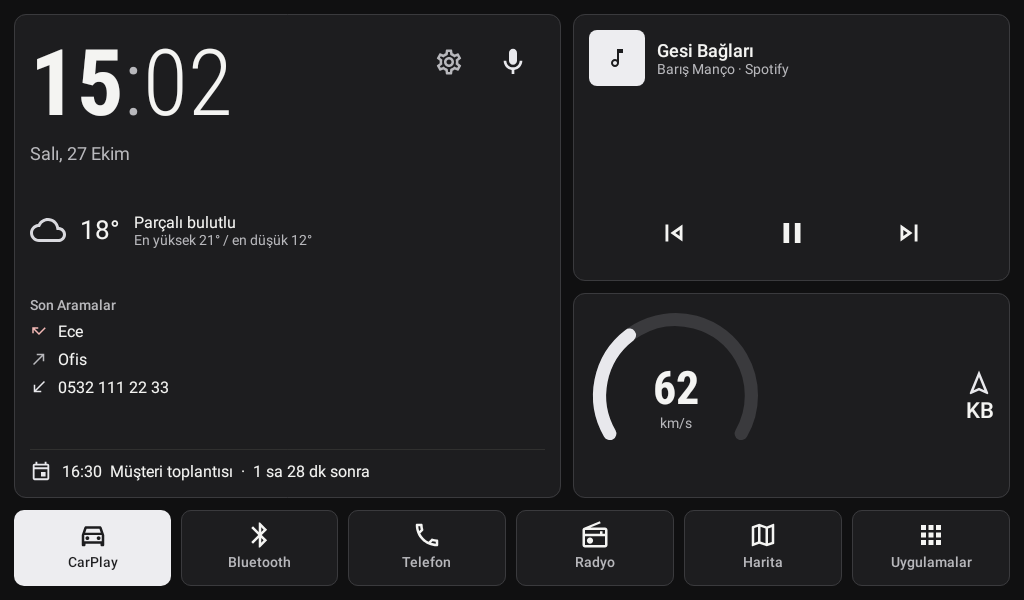
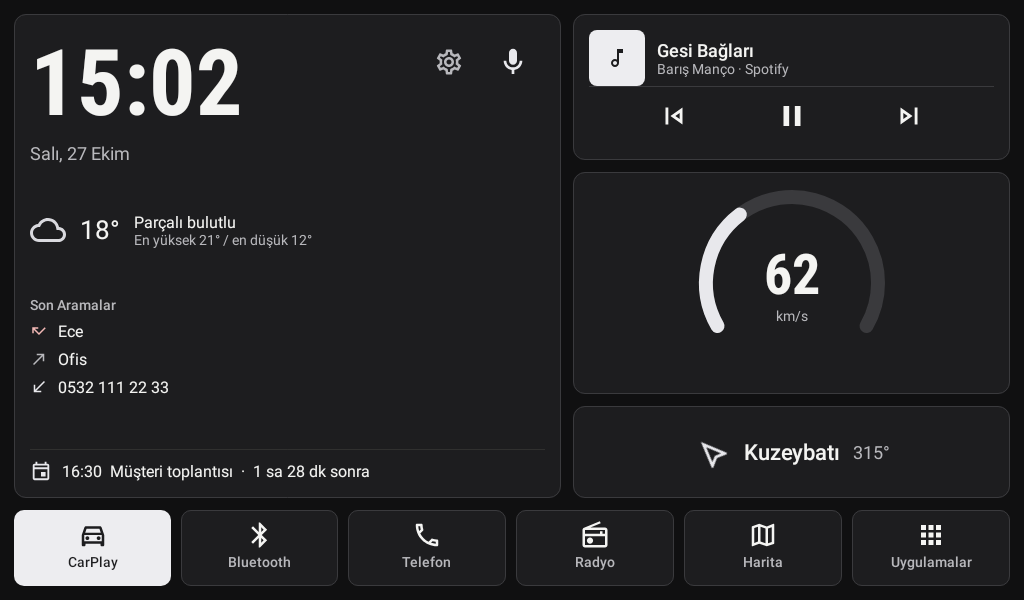
feat: bold green clock, shorter music card with divider, centred speedometer and heading card

diff --git a/app/src/main/java/io/github/yorulmazsinan/kokpit/home/cards/DriveCard.kt b/app/src/main/java/io/github/yorulmazsinan/kokpit/home/cards/DriveCard.kt
@@ -8,7 +8,6 @@ import androidx.compose.foundation.layout.Column
 import androidx.compose.foundation.layout.Row
 import androidx.compose.foundation.layout.Spacer
 import androidx.compose.foundation.layout.aspectRatio
-import androidx.compose.foundation.layout.fillMaxHeight
 import androidx.compose.foundation.layout.fillMaxSize
 import androidx.compose.foundation.layout.padding
 import androidx.compose.foundation.layout.size
@@ -22,6 +21,7 @@ import androidx.compose.material3.Text
 import androidx.compose.runtime.Composable
 import androidx.compose.ui.Alignment
 import androidx.compose.ui.Modifier
+import androidx.compose.ui.draw.rotate
 import androidx.compose.ui.geometry.Offset
 import androidx.compose.ui.geometry.Size
 import androidx.compose.ui.graphics.StrokeCap
@@ -34,13 +34,15 @@ import androidx.compose.ui.unit.sp
 import io.github.yorulmazsinan.kokpit.R
 import io.github.yorulmazsinan.kokpit.drive.TripSnapshot
 import io.github.yorulmazsinan.kokpit.ui.theme.KokpitFonts
+import kotlin.math.roundToInt
 
 private const val GAUGE_MAX_KMH = 180f
 private const val SWEEP = 240f
 private const val START = 150f
 
+/** Centred 0–180 km/h arc speedometer. */
 @Composable
-fun DriveCard(trip: TripSnapshot, permissionMissing: Boolean, onRequestPermissions: () -> Unit, modifier: Modifier = Modifier) {
+fun SpeedCard(trip: TripSnapshot, permissionMissing: Boolean, onRequestPermissions: () -> Unit, modifier: Modifier = Modifier) {
     KokpitCard(modifier) {
         if (permissionMissing) {
             Row(Modifier.fillMaxSize().clickable(onClick = onRequestPermissions), verticalAlignment = Alignment.CenterVertically) {
@@ -50,31 +52,44 @@ fun DriveCard(trip: TripSnapshot, permissionMissing: Boolean, onRequestPermissio
             }
             return@KokpitCard
         }
-        Row(Modifier.fillMaxSize(), verticalAlignment = Alignment.CenterVertically, horizontalArrangement = Arrangement.SpaceBetween) {
-            SpeedGauge(if (trip.hasFix) trip.speedKmh else null, Modifier.fillMaxHeight().aspectRatio(1f))
-            Column(horizontalAlignment = Alignment.End, verticalArrangement = Arrangement.Center) {
-                if (!trip.hasFix) {
-                    Icon(Icons.Outlined.GpsNotFixed, null, tint = MaterialTheme.colorScheme.onSurfaceVariant, modifier = Modifier.size(26.dp))
-                    Text(stringResource(R.string.gps_searching), style = MaterialTheme.typography.bodySmall, color = MaterialTheme.colorScheme.onSurfaceVariant)
-                } else {
-                    trip.compass?.let { compass ->
-                        Icon(Icons.Outlined.Navigation, null, tint = MaterialTheme.colorScheme.primary, modifier = Modifier.size(30.dp))
-                        Text(stringResource(compass.label), style = MaterialTheme.typography.titleLarge, color = MaterialTheme.colorScheme.onSurface)
-                    }
-                }
+        Box(Modifier.fillMaxSize(), contentAlignment = Alignment.Center) {
+            SpeedGauge(if (trip.hasFix) trip.speedKmh else null, Modifier.aspectRatio(1f))
+        }
+    }
+}
+
+/** Heading for now: an arrow turned to the direction of travel, its name and degrees. */
+@Composable
+fun CompassCard(trip: TripSnapshot, modifier: Modifier = Modifier) {
+    KokpitCard(modifier.testTag("compass_card")) {
+        Row(Modifier.fillMaxSize(), verticalAlignment = Alignment.CenterVertically, horizontalArrangement = Arrangement.Center) {
+            val bearing = trip.bearingDeg
+            val compass = trip.compass
+            Icon(
+                Icons.Outlined.Navigation,
+                null,
+                tint = if (bearing != null) MaterialTheme.colorScheme.primary else MaterialTheme.colorScheme.onSurfaceVariant,
+                modifier = Modifier.size(34.dp).rotate(bearing ?: 0f),
+            )
+            Spacer(Modifier.width(16.dp))
+            if (compass != null && bearing != null) {
+                Text(stringResource(compass.fullLabel), style = MaterialTheme.typography.titleLarge, color = MaterialTheme.colorScheme.onSurface)
+                Spacer(Modifier.width(12.dp))
+                Text("${bearing.roundToInt() % 360}°", style = MaterialTheme.typography.bodyLarge, color = MaterialTheme.colorScheme.onSurfaceVariant)
+            } else {
+                Text("—", style = MaterialTheme.typography.titleLarge, color = MaterialTheme.colorScheme.onSurfaceVariant)
             }
         }
     }
 }
 
-/** 240° arc from 0 to 180 km/h with the number in the middle; null shows an empty dial. */
 @Composable
 private fun SpeedGauge(speedKmh: Int?, modifier: Modifier) {
     val track = MaterialTheme.colorScheme.outlineVariant
     val fill = MaterialTheme.colorScheme.primary
     Box(modifier, contentAlignment = Alignment.Center) {
-        Canvas(Modifier.fillMaxSize().padding(4.dp)) {
-            val stroke = size.minDimension * 0.08f
+        Canvas(Modifier.fillMaxSize().padding(2.dp)) {
+            val stroke = size.minDimension * 0.075f
             val arcSize = Size(size.minDimension - stroke, size.minDimension - stroke)
             val topLeft = Offset((size.width - arcSize.width) / 2, (size.height - arcSize.height) / 2)
             drawArc(track, START, SWEEP, false, topLeft, arcSize, style = Stroke(stroke, cap = StrokeCap.Round))
@@ -86,11 +101,15 @@ private fun SpeedGauge(speedKmh: Int?, modifier: Modifier) {
         Column(horizontalAlignment = Alignment.CenterHorizontally) {
             Text(
                 speedKmh?.toString() ?: "–",
-                style = TextStyle(fontFamily = KokpitFonts.condensed, fontSize = 46.sp, lineHeight = 46.sp),
+                style = TextStyle(fontFamily = KokpitFonts.condensed, fontSize = 56.sp, lineHeight = 56.sp),
                 color = MaterialTheme.colorScheme.secondary,
                 modifier = Modifier.testTag("speed_value"),
             )
-            Text(stringResource(R.string.speed_unit), style = MaterialTheme.typography.bodySmall, color = MaterialTheme.colorScheme.onSurfaceVariant)
+            Text(
+                if (speedKmh != null) stringResource(R.string.speed_unit) else stringResource(R.string.gps_searching),
+                style = MaterialTheme.typography.bodySmall,
+                color = MaterialTheme.colorScheme.onSurfaceVariant,
+            )
         }
     }
 }

diff --git a/app/src/main/java/io/github/yorulmazsinan/kokpit/home/cards/ClockCard.kt b/app/src/main/java/io/github/yorulmazsinan/kokpit/home/cards/ClockCard.kt
@@ -45,10 +45,7 @@ import io.github.yorulmazsinan.kokpit.ui.theme.KokpitFonts
 import androidx.compose.material.icons.outlined.CallMade
 import androidx.compose.material.icons.outlined.CallMissed
 import androidx.compose.material.icons.outlined.CallReceived
-import androidx.compose.ui.text.SpanStyle
 import androidx.compose.ui.text.TextStyle
-import androidx.compose.ui.text.buildAnnotatedString
-import androidx.compose.ui.text.withStyle
 import androidx.compose.ui.unit.sp
 import io.github.yorulmazsinan.kokpit.ui.theme.Dimens
 import io.github.yorulmazsinan.kokpit.weather.Weather
@@ -198,16 +195,10 @@ fun WeatherCondition.icon(isDay: Boolean): ImageVector = when (this) {
 
 @Composable
 private fun StyledClock(now: LocalDateTime) {
-    val hours = now.format(DateTimeFormatter.ofPattern("HH"))
-    val minutes = now.format(DateTimeFormatter.ofPattern("mm"))
-    val colors = MaterialTheme.colorScheme
     Text(
-        buildAnnotatedString {
-            withStyle(SpanStyle(fontFamily = KokpitFonts.condensed, color = colors.secondary)) { append(hours) }
-            withStyle(SpanStyle(fontFamily = KokpitFonts.condensedLight, color = colors.onSurfaceVariant)) { append(":") }
-            withStyle(SpanStyle(fontFamily = KokpitFonts.condensedLight, color = colors.onSurface)) { append(minutes) }
-        },
-        style = TextStyle(fontSize = 92.sp, lineHeight = 92.sp),
+        now.format(timeFormat),
+        style = TextStyle(fontFamily = KokpitFonts.condensed, fontSize = 92.sp, lineHeight = 92.sp),
+        color = MaterialTheme.colorScheme.secondary,
     )
 }
 

diff --git a/app/src/main/java/io/github/yorulmazsinan/kokpit/home/HomeScreen.kt b/app/src/main/java/io/github/yorulmazsinan/kokpit/home/HomeScreen.kt
@@ -14,7 +14,8 @@ import androidx.compose.ui.Modifier
 import io.github.yorulmazsinan.kokpit.dock.DockSlot
 import io.github.yorulmazsinan.kokpit.home.cards.ClockCard
 import io.github.yorulmazsinan.kokpit.home.cards.Dock
-import io.github.yorulmazsinan.kokpit.home.cards.DriveCard
+import io.github.yorulmazsinan.kokpit.home.cards.CompassCard
+import io.github.yorulmazsinan.kokpit.home.cards.SpeedCard
 import io.github.yorulmazsinan.kokpit.home.cards.NowPlayingCard
 import io.github.yorulmazsinan.kokpit.ui.theme.Dimens
 import java.time.LocalDateTime
@@ -48,14 +49,15 @@ fun HomeScreen(state: HomeUiState, now: LocalDateTime, actions: HomeActions) {
                     onPrevious = actions.onPrevious,
                     onPlayPause = actions.onPlayPause,
                     onNext = actions.onNext,
-                    modifier = Modifier.weight(1.3f).fillMaxWidth(),
+                    modifier = Modifier.weight(0.95f).fillMaxWidth(),
                 )
-                DriveCard(
+                SpeedCard(
                     trip = state.trip,
                     permissionMissing = state.locationPermissionMissing,
                     onRequestPermissions = actions.onRequestPermissions,
-                    modifier = Modifier.weight(1f).fillMaxWidth(),
+                    modifier = Modifier.weight(1.45f).fillMaxWidth(),
                 )
+                CompassCard(state.trip, Modifier.weight(0.6f).fillMaxWidth())
             }
         }
         Dock(actions.onDock, actions.onDockLongPress)

diff --git a/app/src/main/java/io/github/yorulmazsinan/kokpit/home/cards/NowPlayingCard.kt b/app/src/main/java/io/github/yorulmazsinan/kokpit/home/cards/NowPlayingCard.kt
@@ -19,6 +19,7 @@ import androidx.compose.material.icons.outlined.Pause
 import androidx.compose.material.icons.outlined.PlayArrow
 import androidx.compose.material.icons.outlined.SkipNext
 import androidx.compose.material.icons.outlined.SkipPrevious
+import androidx.compose.material3.HorizontalDivider
 import androidx.compose.material3.Icon
 import androidx.compose.material3.IconButton
 import androidx.compose.material3.MaterialTheme
@@ -30,6 +31,7 @@ import androidx.compose.ui.draw.clip
 import androidx.compose.ui.graphics.asImageBitmap
 import androidx.compose.ui.graphics.vector.ImageVector
 import androidx.compose.ui.layout.ContentScale
+import androidx.compose.ui.platform.testTag
 import androidx.compose.ui.res.stringResource
 import androidx.compose.ui.text.style.TextOverflow
 import androidx.compose.ui.unit.dp
@@ -77,6 +79,10 @@ fun NowPlayingCard(
                             )
                         }
                     }
+                    HorizontalDivider(
+                        Modifier.testTag("music_divider"),
+                        color = MaterialTheme.colorScheme.outlineVariant,
+                    )
                     Row(Modifier.fillMaxWidth(), horizontalArrangement = Arrangement.SpaceEvenly) {
                         Control(Icons.Outlined.SkipPrevious, R.string.media_previous, onPrevious)
                         Control(if (np.isPlaying) Icons.Outlined.Pause else Icons.Outlined.PlayArrow, R.string.media_play_pause, onPlayPause)

diff --git a/app/src/test/java/io/github/yorulmazsinan/kokpit/home/HomeScreenTest.kt b/app/src/test/java/io/github/yorulmazsinan/kokpit/home/HomeScreenTest.kt
@@ -12,6 +12,7 @@ import io.github.yorulmazsinan.kokpit.R
 import io.github.yorulmazsinan.kokpit.calendar.CalendarState
 import io.github.yorulmazsinan.kokpit.calls.CallEntry
 import io.github.yorulmazsinan.kokpit.calls.CallType
+import io.github.yorulmazsinan.kokpit.drive.CompassPoint
 import io.github.yorulmazsinan.kokpit.calendar.UpcomingEvent
 import io.github.yorulmazsinan.kokpit.dock.DockSlot
 import io.github.yorulmazsinan.kokpit.drive.TripSnapshot
@@ -131,5 +132,19 @@ class HomeScreenTest {
     fun hidesRecentCallsWhenNone() {
         show(base)
         compose.onNodeWithTag("recent_calls").assertDoesNotExist()
+    }
+
+    @Test
+    fun compassCardShowsFullHeadingName() {
+        show(base.copy(trip = TripSnapshot(speedKmh = 62, compass = CompassPoint.NW, averageKmh = null, hasFix = true, bearingDeg = 315f)))
+        compose.onNodeWithTag("compass_card").assertExists()
+        compose.onNodeWithText(context.getString(R.string.compass_full_nw)).assertExists()
+        compose.onNodeWithText("315°").assertExists()
+    }
+
+    @Test
+    fun musicCardSeparatesInfoFromControls() {
+        show(base.copy(media = NowPlayingState.Playing(io.github.yorulmazsinan.kokpit.media.NowPlaying("Şarkı", "Sanatçı", "Spotify", null, true))))
+        compose.onNodeWithTag("music_divider").assertExists()
     }
 }

diff --git a/app/src/main/java/io/github/yorulmazsinan/kokpit/drive/CompassPoint.kt b/app/src/main/java/io/github/yorulmazsinan/kokpit/drive/CompassPoint.kt
@@ -3,9 +3,11 @@ package io.github.yorulmazsinan.kokpit.drive
 import androidx.annotation.StringRes
 import io.github.yorulmazsinan.kokpit.R
 
-enum class CompassPoint(@StringRes val label: Int) {
-    N(R.string.compass_n), NE(R.string.compass_ne), E(R.string.compass_e), SE(R.string.compass_se),
-    S(R.string.compass_s), SW(R.string.compass_sw), W(R.string.compass_w), NW(R.string.compass_nw);
+enum class CompassPoint(@StringRes val label: Int, @StringRes val fullLabel: Int) {
+    N(R.string.compass_n, R.string.compass_full_n), NE(R.string.compass_ne, R.string.compass_full_ne),
+    E(R.string.compass_e, R.string.compass_full_e), SE(R.string.compass_se, R.string.compass_full_se),
+    S(R.string.compass_s, R.string.compass_full_s), SW(R.string.compass_sw, R.string.compass_full_sw),
+    W(R.string.compass_w, R.string.compass_full_w), NW(R.string.compass_nw, R.string.compass_full_nw);
 
     companion object {
         /** Eight 45° sectors, N covering [-22.5°, 22.5°). */

diff --git a/app/src/main/java/io/github/yorulmazsinan/kokpit/drive/TripTracker.kt b/app/src/main/java/io/github/yorulmazsinan/kokpit/drive/TripTracker.kt
@@ -16,7 +16,13 @@ data class Fix(
     val bearingDeg: Float?,
 )
 
-data class TripSnapshot(val speedKmh: Int?, val compass: CompassPoint?, val averageKmh: Int?, val hasFix: Boolean)
+data class TripSnapshot(
+    val speedKmh: Int?,
+    val compass: CompassPoint?,
+    val averageKmh: Int?,
+    val hasFix: Boolean,
+    val bearingDeg: Float? = null,
+)
 
 /**
  * Average speed = distance ÷ time the unit was awake. Stops while awake count (like the
@@ -84,6 +90,7 @@ class TripTracker(private val resetAfterSleepMs: Long = 30 * 60_000L) {
             compass = if (hasFix) fix?.bearingDeg?.let(CompassPoint::fromBearing) else null,
             averageKmh = average,
             hasFix = hasFix,
+            bearingDeg = if (hasFix) fix?.bearingDeg else null,
         )
     }
 

diff --git a/app/src/test/java/io/github/yorulmazsinan/kokpit/home/HomeScreenshotTest.kt b/app/src/test/java/io/github/yorulmazsinan/kokpit/home/HomeScreenshotTest.kt
@@ -45,7 +45,7 @@ class HomeScreenshotTest {
             UpcomingEvent("Müşteri toplantısı", now.withHour(16).withMinute(30).atZone(ZoneId.systemDefault()).toInstant().toEpochMilli()),
         ),
         media = NowPlayingState.Playing(NowPlaying("Gesi Bağları", "Barış Manço", "Spotify", null, isPlaying = true)),
-        trip = TripSnapshot(speedKmh = 62, compass = CompassPoint.NW, averageKmh = 48, hasFix = true),
+        trip = TripSnapshot(speedKmh = 62, compass = CompassPoint.NW, averageKmh = 48, hasFix = true, bearingDeg = 315f),
         locationPermissionMissing = false,
         dock = DockSlot.entries.associateWith { null },
         dark = dark,

diff --git a/app/src/test/java/io/github/yorulmazsinan/kokpit/drive/TripTrackerTest.kt b/app/src/test/java/io/github/yorulmazsinan/kokpit/drive/TripTrackerTest.kt
@@ -79,6 +79,7 @@ class TripTrackerTest {
         assertTrue(fresh.hasFix)
         assertEquals(36, fresh.speedKmh)
         assertEquals(CompassPoint.E, fresh.compass)
+        assertEquals(90f, fresh.bearingDeg)
         val stale = tracker.snapshot(7000)
         assertFalse(stale.hasFix)
         assertNull(stale.speedKmh)
